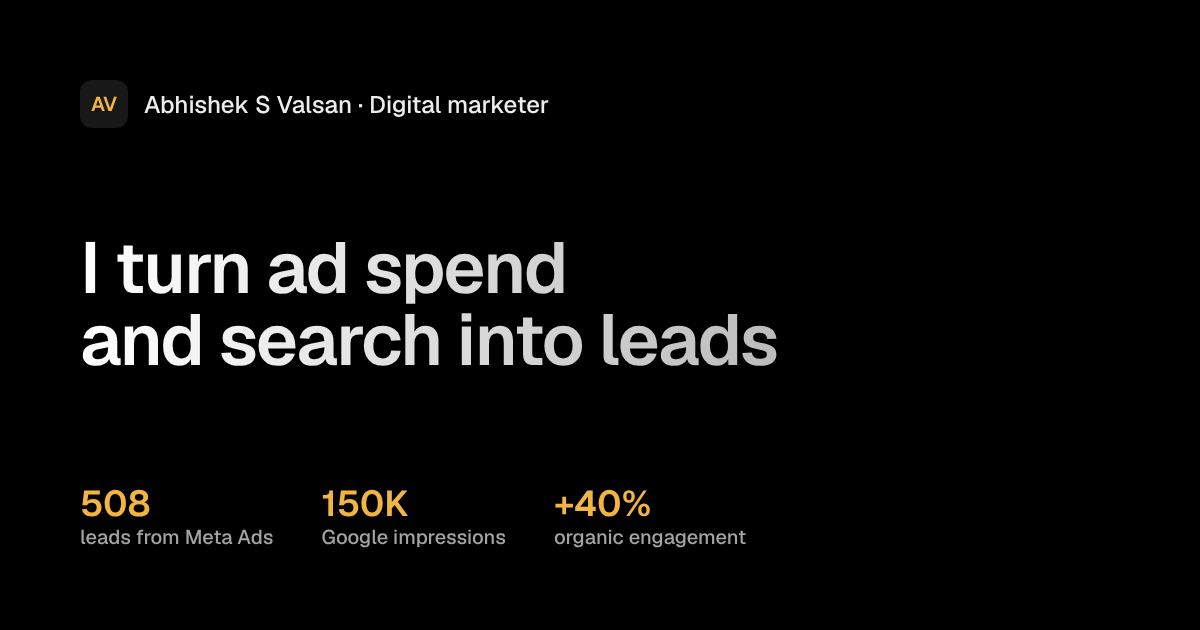
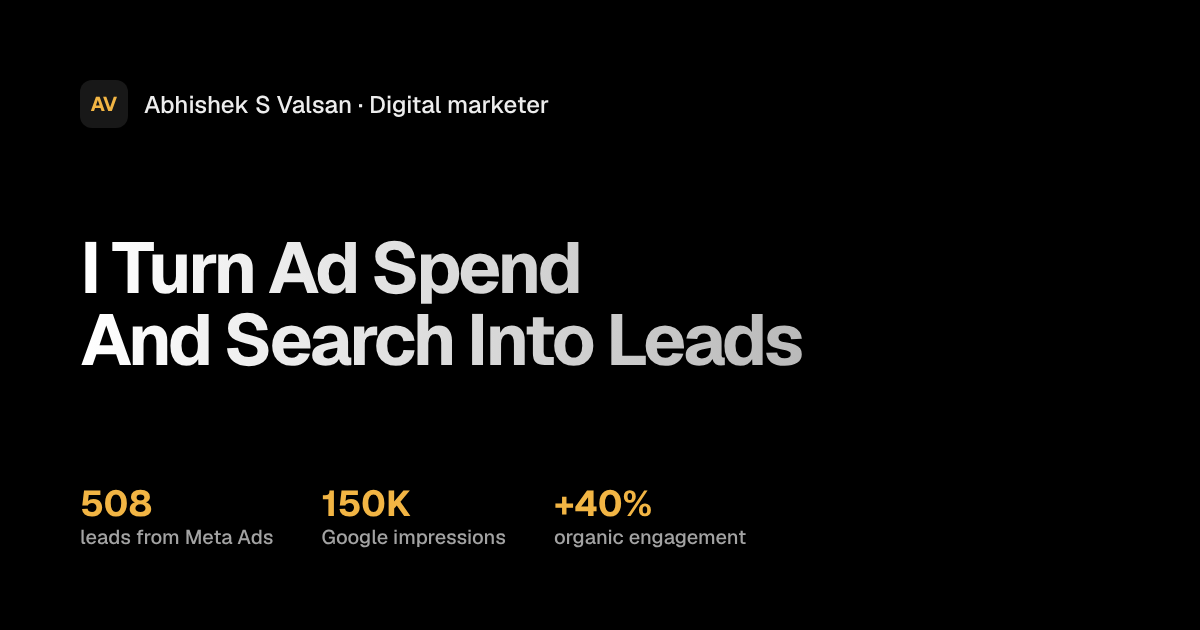
Bigger, bolder Title Case hero headline
Geist bold, 30px on phones up to 96px on wide screens.

Claude-Session: https://claude.ai/code/session_01RaB77L15UpV7Jzk16EzpYD

diff --git a/assets/css/site.css b/assets/css/site.css
@@ -6,6 +6,7 @@
 @font-face{font-family:"Geist";src:url("../fonts/Geist-Regular.woff2") format("woff2");font-weight:400;font-style:normal;font-display:swap}
 @font-face{font-family:"Geist";src:url("../fonts/Geist-Medium.woff2") format("woff2");font-weight:500;font-style:normal;font-display:swap}
 @font-face{font-family:"Geist";src:url("../fonts/Geist-SemiBold.woff2") format("woff2");font-weight:600;font-style:normal;font-display:swap}
+@font-face{font-family:"Geist";src:url("../fonts/Geist-Bold.woff2") format("woff2");font-weight:700;font-style:normal;font-display:swap}
 @font-face{font-family:"Phosphor";src:url("../fonts/Phosphor.woff2") format("woff2");font-weight:normal;font-style:normal;font-display:block}
 
 :root{
@@ -75,6 +76,10 @@ p,li,dd,figcaption,summary{text-wrap:pretty}
   .lg\:heading-1{font-size:3.75rem;line-height:3.75rem;font-weight:600;letter-spacing:-0.025em}
   .lg\:heading-2{font-size:3rem;line-height:3rem;font-weight:600;letter-spacing:-0.025em}
   .lg\:heading-3{font-size:2.25rem;line-height:2.5rem;font-weight:600;letter-spacing:-0.02em}
+  .lg\:display-2{font-size:4.5rem;line-height:4.5rem}
+}
+@media (min-width:1280px){
+  .xl\:display-1{font-size:6rem;line-height:6rem}
 }
 .muted{color:var(--text-2)}
 .faint{color:var(--text-3)}
@@ -155,10 +160,10 @@ p,li,dd,figcaption,summary{text-wrap:pretty}
 /* ---------- hero (B5) ---------- */
 .hero{padding-top:var(--s-900);padding-bottom:var(--s-700)}
 @media (min-width:1024px){.hero{margin-top:var(--s-700)}}
-.hero-copy{max-width:680px;display:grid;gap:var(--s-300);justify-items:start}
+.hero-copy{display:grid;gap:var(--s-300);justify-items:start}
 .badge{display:inline-flex;align-items:center;gap:var(--s-75);padding:var(--s-50) var(--s-100);border:1px solid var(--line-2);border-radius:var(--r-full);background:var(--surface)}
 .dot{width:var(--s-75);height:var(--s-75);border-radius:var(--r-full);background:var(--ok)}
-.hero-title{max-width:680px;padding-bottom:var(--s-50);background:linear-gradient(90deg,#FFFFFF 0%,#9B9B9B 100%);-webkit-background-clip:text;background-clip:text;color:transparent}
+.hero-title{font-weight:700;letter-spacing:-0.045em;padding-bottom:var(--s-75);background:linear-gradient(90deg,#FFFFFF 0%,#9B9B9B 100%);-webkit-background-clip:text;background-clip:text;color:transparent}
 .hero-sub{max-width:680px}
 .proof-row{display:grid;gap:var(--s-75);margin-top:var(--s-200)}
 .brands{display:flex;flex-wrap:wrap;gap:var(--s-75) var(--s-300)}

diff --git a/index.html b/index.html
@@ -21,6 +21,7 @@
 <link rel="icon" href="favicon.svg" type="image/svg+xml">
 <link rel="preload" href="assets/fonts/Geist-Regular.woff2" as="font" type="font/woff2" crossorigin>
 <link rel="preload" href="assets/fonts/Geist-SemiBold.woff2" as="font" type="font/woff2" crossorigin>
+<link rel="preload" href="assets/fonts/Geist-Bold.woff2" as="font" type="font/woff2" crossorigin>
 <link rel="stylesheet" href="assets/css/site.css">
 <script>document.documentElement.classList.add('js')</script>
 <script type="application/ld+json">
@@ -90,7 +91,7 @@
     <div class="container">
       <div class="hero-copy">
         <p class="badge caption-1"><span class="dot" aria-hidden="true"></span>Open to full time roles and freelance projects</p>
-        <h1 class="hero-title heading-3 md:heading-1" id="hero-title">I turn ad spend<br> and search into leads</h1>
+        <h1 class="hero-title heading-4 md:heading-1 lg:display-2 xl:display-1" id="hero-title">I Turn Ad Spend<br> And Search Into Leads</h1>
         <p class="hero-sub title-1 muted">I'm Abhishek S Valsan, a digital marketer for Meta Ads, SEO, social media and short form video. I've worked with seven brands across the UK, the UAE and India.</p>
         <a class="btn btn-primary button-md" href="mailto:abhisheksvalsan@gmail.com?subject=Intro%20call">Book a free intro call <i class="ph ph-arrow-right icon-sm" aria-hidden="true"></i></a>
         <div class="proof-row">
